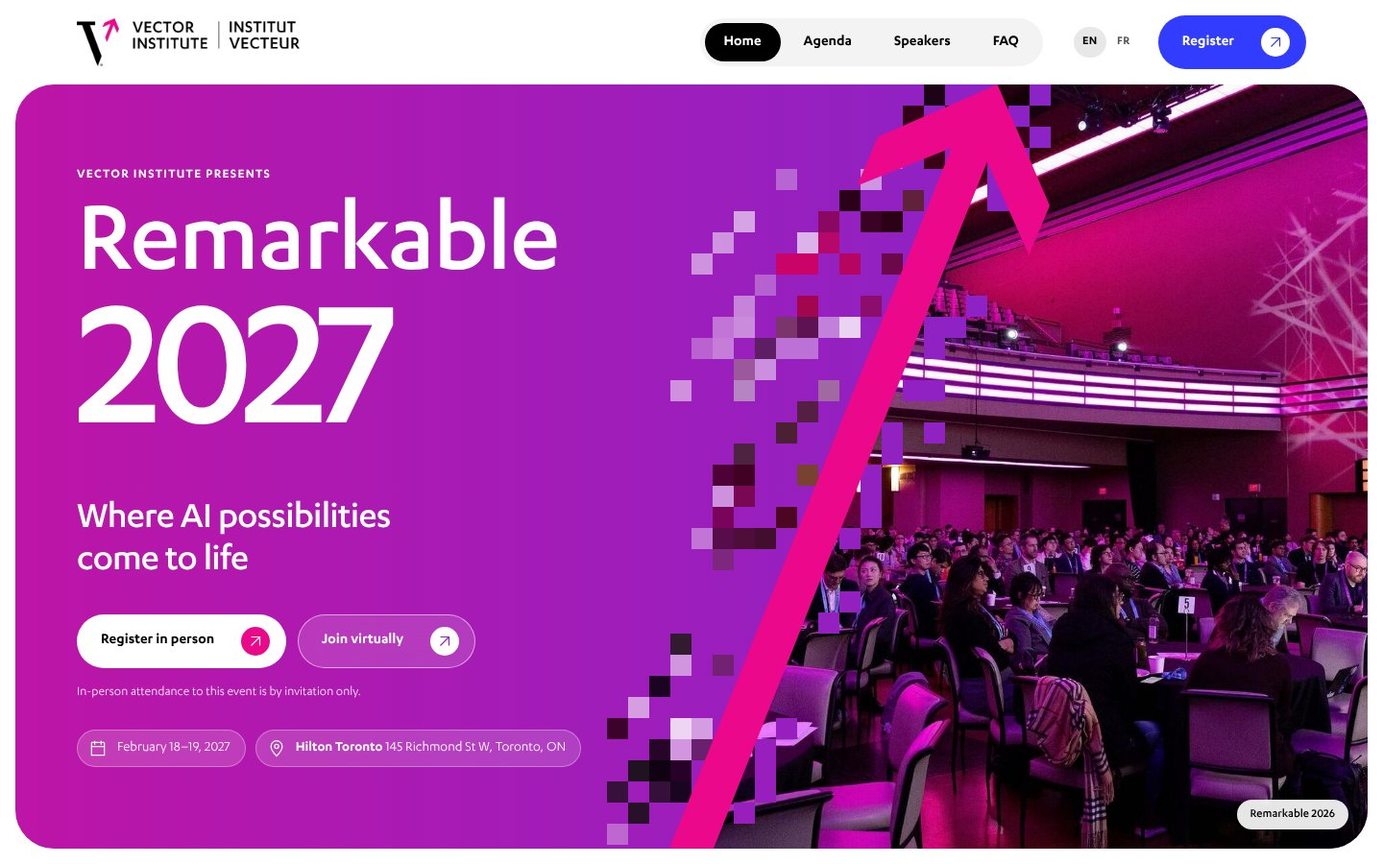
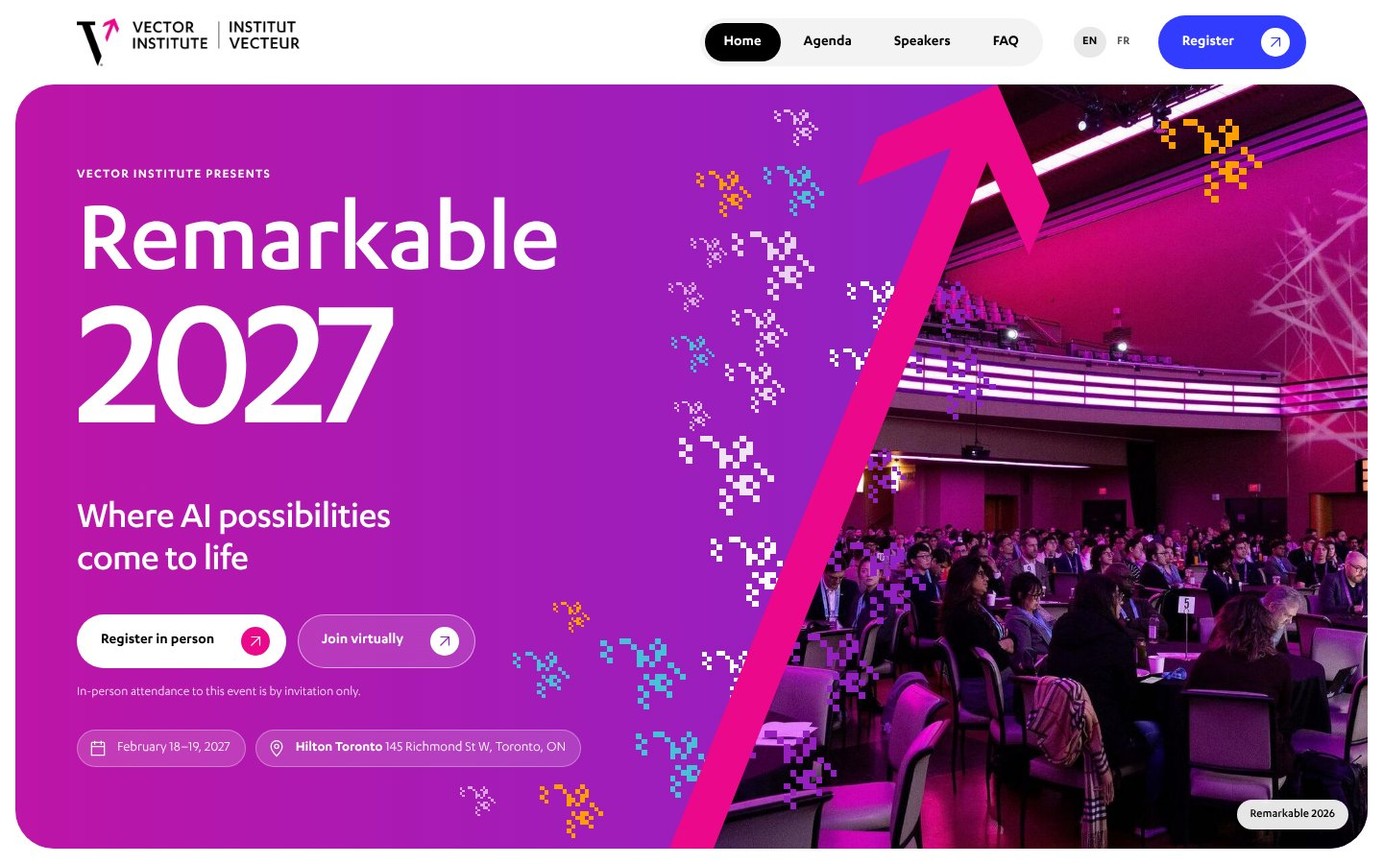
Build pixel tapestries from the official Pixel Design and add brand colour
Every pixel shape is now a whole copy of the official 34-cell pattern,
scaled and coloured only, streamed along the arrow cut. Turquoise and
tangerine join magenta and cobalt in the tapestries, statistics tiles and
agenda session-format dots.

Claude-Session: https://claude.ai/code/session_01XT9Aik9BCKUS9Kz6oc567m

diff --git a/remarkable-2027/dist/render.js b/remarkable-2027/dist/render.js
@@ -24,8 +24,8 @@ let copy;
 const placeholder=(label,cls='',icon=upArrow)=>`<a class="${cls}" href="#" data-placeholder aria-disabled="true">${esc(label)}${icon}</a>`;
 const moreLink=(url,label)=>`<a class="text-link" href="${url}">${esc(label)}${arrow()}</a>`;
 
-/* Arrow seam: the official extended arrow cuts a photo away from a colour field.
-   wireSeams() breaks the photo into pixels along that cut. Pixels appear nowhere else. */
+/* Arrow seam: the official extended arrow cuts a photo away from a colour field, and
+   wireSeams() gathers official Pixel Design copies along that cut. Pixels appear nowhere else. */
 const seam=(photo,alt='',caption='')=>`<figure class="seam-art">${img(photo,alt,'seam-photo',false)}${caption?`<figcaption>${esc(caption)}</figcaption>`:''}</figure><canvas class="seam-pixels" aria-hidden="true"></canvas>${img('assets/brand-elements/vector-arrow-extended.svg','','seam-arrow',false)}`;
 
 function nav(page){return `<a class="skip-link" href="#main-content">${esc(copy.ui.skip)}</a>
@@ -40,7 +40,7 @@ const locationIcon='<svg viewBox="0 0 24 24" fill="none" aria-hidden="true"><pat
 const eventDetails=(cls='')=>`<ul class="event-details ${cls}"><li>${calendarIcon}<span>${esc(copy.hero.dates)}</span></li><li>${locationIcon}<span><strong>${esc(copy.hero.venue)}</strong> ${esc(copy.hero.venue_address)}</span></li></ul>`;
 
 function heroActions(cls){const h=copy.hero;return `<div class="hero-actions ${cls}"><div class="hero-ctas">${placeholder(h.cta_primary,'btn btn--white')}${placeholder(h.cta_secondary,'btn btn--glass')}</div><p class="hero-invitation">${esc(h.small_print)}</p></div>`;}
-function hero(){const h=copy.hero;const match=h.event_name.match(/^(.*?)\s(\d{4})$/);return `<section class="hero"><div class="hero-main seam" data-split=".5" data-field="#BD15A7,#7B27D0">
+function hero(){const h=copy.hero;const match=h.event_name.match(/^(.*?)\s(\d{4})$/);return `<section class="hero"><div class="hero-main seam" data-split=".5" data-field="#BD15A7,#7B27D0" data-palette="#FFFFFF,#48C0D9,#FF9E00">
  ${seam('assets/photos-2026/auditorium-crowd.jpg',photoAlt('auditorium-crowd.jpg'),'Remarkable 2026')}
  <div class="hero-stage seam-stage"><div class="hero-copy seam-copy"><p class="eyebrow">${esc(h.eyebrow)}</p><h1><span class="hero-name">${esc(match[1])}</span> <span class="hero-year">${esc(match[2])}</span></h1><p class="hero-tagline">${esc(h.tagline).replace(' come to life',' <span>come to life</span>')}</p>${heroActions('hero-actions--desktop')}${eventDetails('event-details--glass hero-details--desktop')}</div></div></div>
  <div class="hero-mobile">${heroActions('hero-actions--mobile')}${eventDetails('hero-details--mobile')}</div></section>`;}
@@ -49,15 +49,17 @@ function intro(){return `<section class="intro section"><div class="container"><
 function stats(){return `<section class="stats" aria-labelledby="stats-heading"><div class="container"><div class="panel stats-panel"><h2 class="stats-caption" id="stats-heading">${esc(copy.stats.caption)}</h2><div class="stats-grid">${copy.stats.items.map(s=>`<div class="stat"><div class="stat-value">${esc(s.value)}</div><p class="stat-label">${esc(s.label)}</p></div>`).join('')}</div></div></div></section>`;}
 function days(){const photos=['stage-fireside-chat.jpg','workshop-room.jpg'];return `<section class="section home-agenda"><div class="container"><div class="section-head"><h2>${esc(copy.agenda_page.title)}</h2>${moreLink('agenda.html',copy.home_links.agenda)}</div><div class="days-grid">${copy.days.map((d,i)=>`<article class="day day--${i+1}"><div class="day-media">${img('assets/photos-2026/'+photos[i],photoAlt(photos[i]),'day-photo')}<span class="day-number" aria-hidden="true">0${i+1}</span></div><div class="day-copy"><p class="day-meta"><span class="chip">${esc(d.label)} · ${esc(d.length)}</span><span class="day-date">${esc(d.date)}</span></p><h3><a href="agenda.html#day-${i+1}">${esc(d.title)}</a></h3><p class="day-description">${esc(d.body)}</p><span class="day-go" aria-hidden="true">${arrow()}</span></div></article>`).join('')}</div><p class="section-foot">${esc(copy.agenda_note)}</p></div></section>`;}
 function speakersHome(){return `<section class="section speakers-home"><div class="container"><div class="panel speakers-panel"><div class="speakers-intro"><h2>${esc(copy.speakers_heading)}</h2>${copy.speakers_note?`<p>${esc(copy.speakers_note)}</p>`:''}${moreLink('speakers.html',copy.home_links.speakers)}</div><div class="speaker-grid">${copy.speakers.map(s=>`<article class="speaker-card"><a class="speaker-photo-link" href="speakers.html#${slug(s.name)}" tabindex="-1" aria-hidden="true">${img(s.photo,s.name,'portrait')}</a><div class="speaker-text"><h3><a href="speakers.html#${slug(s.name)}">${esc(s.name)}</a></h3><p class="role">${esc(s.title)}</p><p class="organization">${esc(s.org)}</p></div></article>`).join('')}</div></div></div></section>`;}
-function recap(){return `<section class="recap-section"><div class="container"><div class="recap-block seam" data-split=".5" data-field="#313CFF">${seam(copy.recap.thumbnail,photoAlt(copy.recap.thumbnail))}<div class="recap-stage seam-stage"><div class="recap-copy seam-copy"><h2>${esc(copy.recap.heading)}</h2></div></div><button class="play" disabled aria-label="${esc(copy.ui.video_placeholder)}"><svg viewBox="0 0 24 28" aria-hidden="true"><path d="M2 2 22 14 2 26Z" fill="currentColor"/></svg></button></div></div></section>`;}
+function recap(){return `<section class="recap-section"><div class="container"><div class="recap-block seam" data-split=".5" data-field="#313CFF" data-palette="#FFFFFF,#48C0D9,#FF9E00">${seam(copy.recap.thumbnail,photoAlt(copy.recap.thumbnail))}<div class="recap-stage seam-stage"><div class="recap-copy seam-copy"><h2>${esc(copy.recap.heading)}</h2></div></div><button class="play" disabled aria-label="${esc(copy.ui.video_placeholder)}"><svg viewBox="0 0 24 28" aria-hidden="true"><path d="M2 2 22 14 2 26Z" fill="currentColor"/></svg></button></div></div></section>`;}
 function gallery(){return `<section class="section gallery" aria-labelledby="gallery-heading"><div class="container"><div class="section-head"><div><h2 id="gallery-heading">${esc(copy.gallery.heading)}</h2><p>${esc(copy.gallery.note)}</p></div><div class="gallery-controls"><span class="gallery-range" aria-live="polite"></span><button class="round-btn gallery-prev" type="button" aria-label="Previous photos" aria-controls="gallery-track">${arrow('left')}</button><button class="round-btn gallery-next" type="button" aria-label="Next photos" aria-controls="gallery-track">${arrow()}</button></div></div><div class="gallery-track" id="gallery-track" tabindex="0" role="region" aria-label="Remarkable 2026 photo gallery">${copy.gallery.photos.map(p=>`<figure>${img(p,photoAlt(p))}</figure>`).join('')}</div></div></section>`;}
 function funders(){const names=['Government of Canada','Government of Ontario','CIFAR'];return `<section class="funders"><div class="container"><div class="panel funder-row"><h2>${esc(copy.funders_heading)}</h2><div class="funder-logos">${copy.funders.map((p,i)=>`<div class="funder-logo">${img(p,names[i])}</div>`).join('')}</div></div></div></section>`;}
 function footer(){const f=copy.footer;return `<footer class="footer"><div class="footer-shell"><div class="container"><div class="footer-contact"><div><p>${esc(f.contact_line)}</p><a class="footer-email" href="mailto:${esc(f.contact)}">${esc(f.contact)}</a></div><p class="footer-hashtag">${esc(f.hashtag)}</p></div><div class="footer-body"><div class="footer-brand"><a class="brand" href="index.html">${logo()}</a><p>${esc(f.ontario_credit)}</p></div><nav class="footer-links" aria-label="Vector Institute">${f.links.flat().map(l=>placeholder(l,'','')).join('')}</nav><div class="footer-socials"><p>${esc(f.socials_label)}</p>${f.socials.map(s=>placeholder(s,'','')).join('')}</div></div><p class="footer-legal">${esc(f.legal)}</p><div class="footer-bottom"><span>${esc(f.copyright)}</span><a href="#top">Back to top ${upArrow}</a></div></div></div></footer>`;}
 
 const bannerPhotos={agenda:'stage-fireside-chat.jpg',speakers:'audience-listening.jpg',faq:'registration-desk.jpg'};
-function pageHeader(page){const c=copy[page+'_page'];return `<section class="page-header"><div class="page-banner seam" data-split=".62" data-field="#BD15A7,#7B27D0">${seam('assets/photos-2026/'+bannerPhotos[page])}<div class="page-heading seam-stage"><div class="page-copy seam-copy"><p class="page-kicker">${esc(copy.hero.event_name)}</p><h1>${esc(c.title)}</h1>${eventDetails('event-details--glass')}</div></div></div><div class="container"><p class="page-intro">${withEmail(c.intro)}</p></div></section>`;}
-function highlights(day,i){const indices=i?[1,2,3]:[2,5,8];const people=[copy.speakers[0],copy.speakers[4],copy.speakers[2]];const photos=['workshop-room.jpg','stage-fireside-chat.jpg','posters-conversation.jpg'];return `<div class="highlights"><h3 class="highlight-heading">Featured sessions</h3><div class="highlight-grid">${indices.map((j,k)=>{const item=day.sessions[j];const portrait=i?'assets/photos-2026/'+photos[k]:people[k].photo;return `<a class="highlight-card" href="#session-${i+1}-${j+1}"><div class="highlight-top"><span class="chip">${esc(item.type)}</span>${upArrow}</div><h4>${esc(item.title)}</h4><div class="highlight-footer">${img(portrait,i?photoAlt(photos[k]):people[k].name,i?'highlight-event':'highlight-portrait')}<p>${esc(i?item.time:people[k].name)}</p></div></a>`;}).join('')}</div></div>`;}
-function agenda(){return `<section class="page-content"><div class="container">${copy.agenda_page.note?`<p class="draft-note">${esc(copy.agenda_page.note)}</p>`:''}<div class="agenda-tabs" role="tablist" aria-label="Agenda day">${copy.days.map((d,i)=>`<button id="tab-${i+1}" class="agenda-tab" type="button" role="tab" aria-selected="${i===0}" aria-controls="day-${i+1}" tabindex="${i===0?'0':'-1'}" data-day="${i+1}"><span class="tab-day">${esc(d.label)}</span><span class="tab-date">${esc(d.date)}<span class="tab-length">${esc(d.length)}</span></span>${arrow()}</button>`).join('')}</div>${copy.agenda_page.days.map((day,i)=>`<div class="agenda-panel" role="tabpanel" id="day-${i+1}" aria-labelledby="tab-${i+1}"${i?' hidden':''} tabindex="0"><div class="agenda-day-head"><h2>${esc(copy.days[i].title)}</h2><p>${esc(copy.agenda_note)}</p></div>${highlights(day,i)}<h3 class="schedule-heading">Full program</h3><div class="schedule">${day.sessions.map((s,j)=>`<article id="session-${i+1}-${j+1}" class="session${['Arrivals','Break','Lunch','Reception','Close'].includes(s.type)?' session--break':''}"><p class="session-time">${esc(s.time)}</p><div class="session-body"><p class="session-type chip">${esc(s.type)}</p><h3>${esc(s.title)}</h3>${s.body?`<p class="session-description">${esc(s.body)}</p>`:''}${s.speakers?`<p class="session-speakers">${esc(s.speakers)}</p>`:''}</div><div class="session-place"><span>${esc(s.where)}</span>${s.livestream?`<span class="livestream">${esc(copy.agenda_page.livestream_label)}</span>`:''}</div></article>`).join('')}</div></div>`).join('')}</div></section>`;}
+function pageHeader(page){const c=copy[page+'_page'];return `<section class="page-header"><div class="page-banner seam" data-split=".62" data-field="#BD15A7,#7B27D0" data-palette="#FFFFFF,#48C0D9,#FF9E00">${seam('assets/photos-2026/'+bannerPhotos[page])}<div class="page-heading seam-stage"><div class="page-copy seam-copy"><p class="page-kicker">${esc(copy.hero.event_name)}</p><h1>${esc(c.title)}</h1>${eventDetails('event-details--glass')}</div></div></div><div class="container"><p class="page-intro">${withEmail(c.intro)}</p></div></section>`;}
+/* Session formats are colour-coded with brand colours: main stage, talks, hands-on, breaks. */
+const toneOf=type=>({'Keynote':'magenta','Welcome':'magenta','Fireside chat':'magenta','Panel':'magenta','Close':'magenta','Research talks':'cobalt','Lightning talks':'cobalt','Workshops':'turquoise','Posters':'turquoise'}[type]||'tangerine');
+function highlights(day,i){const indices=i?[1,2,3]:[2,5,8];const people=[copy.speakers[0],copy.speakers[4],copy.speakers[2]];const photos=['workshop-room.jpg','stage-fireside-chat.jpg','posters-conversation.jpg'];return `<div class="highlights"><h3 class="highlight-heading">Featured sessions</h3><div class="highlight-grid">${indices.map((j,k)=>{const item=day.sessions[j];const portrait=i?'assets/photos-2026/'+photos[k]:people[k].photo;return `<a class="highlight-card" href="#session-${i+1}-${j+1}"><div class="highlight-top"><span class="chip chip--dot" data-tone="${toneOf(item.type)}">${esc(item.type)}</span>${upArrow}</div><h4>${esc(item.title)}</h4><div class="highlight-footer">${img(portrait,i?photoAlt(photos[k]):people[k].name,i?'highlight-event':'highlight-portrait')}<p>${esc(i?item.time:people[k].name)}</p></div></a>`;}).join('')}</div></div>`;}
+function agenda(){return `<section class="page-content"><div class="container">${copy.agenda_page.note?`<p class="draft-note">${esc(copy.agenda_page.note)}</p>`:''}<div class="agenda-tabs" role="tablist" aria-label="Agenda day">${copy.days.map((d,i)=>`<button id="tab-${i+1}" class="agenda-tab" type="button" role="tab" aria-selected="${i===0}" aria-controls="day-${i+1}" tabindex="${i===0?'0':'-1'}" data-day="${i+1}"><span class="tab-day">${esc(d.label)}</span><span class="tab-date">${esc(d.date)}<span class="tab-length">${esc(d.length)}</span></span>${arrow()}</button>`).join('')}</div>${copy.agenda_page.days.map((day,i)=>`<div class="agenda-panel" role="tabpanel" id="day-${i+1}" aria-labelledby="tab-${i+1}"${i?' hidden':''} tabindex="0"><div class="agenda-day-head"><h2>${esc(copy.days[i].title)}</h2><p>${esc(copy.agenda_note)}</p></div>${highlights(day,i)}<h3 class="schedule-heading">Full program</h3><div class="schedule">${day.sessions.map((s,j)=>`<article id="session-${i+1}-${j+1}" class="session${['Arrivals','Break','Lunch','Reception','Close'].includes(s.type)?' session--break':''}"><p class="session-time">${esc(s.time)}</p><div class="session-body"><p class="session-type chip chip--dot" data-tone="${toneOf(s.type)}">${esc(s.type)}</p><h3>${esc(s.title)}</h3>${s.body?`<p class="session-description">${esc(s.body)}</p>`:''}${s.speakers?`<p class="session-speakers">${esc(s.speakers)}</p>`:''}</div><div class="session-place"><span>${esc(s.where)}</span>${s.livestream?`<span class="livestream">${esc(copy.agenda_page.livestream_label)}</span>`:''}</div></article>`).join('')}</div></div>`).join('')}</div></section>`;}
 function speakers(){return `<section class="page-content"><div class="container profiles">${copy.speakers.map(s=>`<article class="speaker-profile" id="${slug(s.name)}">${img(s.photo,s.name,'portrait')}<div class="profile-copy"><div class="profile-heading"><h2>${esc(s.name)}</h2><p class="profile-role">${esc(s.title)}</p><p class="profile-org">${esc(s.org)}</p></div><p class="profile-bio">${esc(s.bio)}</p><span class="chip chip--magenta">${esc(s.session)}</span></div></article>`).join('')}<p class="speakers-more">${esc(copy.speakers_page.more)}</p></div></section>`;}
 function withEmail(s){return esc(s).replace(/events@vectorinstitute\.ai/g,'<a href="mailto:events@vectorinstitute.ai">events@vectorinstitute.ai</a>');}
 function faq(){return `<section class="page-content"><div class="container faq-layout"><nav class="faq-nav" aria-label="FAQ topics"><p>Topics</p>${copy.faq_page.groups.map(g=>`<a href="#${slug(g.heading)}">${esc(g.heading)}${arrow()}</a>`).join('')}</nav><div>${copy.faq_page.groups.map(g=>`<section class="faq-group" id="${slug(g.heading)}"><h2>${img('assets/brand-elements/vector-arrow-compact.svg','','faq-heading-arrow',false)}${esc(g.heading)}</h2>${g.items.map((q,k)=>`<details class="faq-item"${k?'':' open'}><summary>${esc(q.q)}<span class="faq-icon" aria-hidden="true"></span></summary><p class="faq-answer">${withEmail(q.a)}</p></details>`).join('')}</section>`).join('')}</div></div></section>`;}
@@ -80,50 +82,85 @@ function wireArrowGeometry(){
  window.addEventListener('resize',()=>document.querySelectorAll('.seam').forEach(s=>s.dispatchEvent(new Event('seamresize'))),{passive:true});
 }
 
-/* Pixel seam. Cells sit on one square grid. On the photo side of the arrow, cells are knocked
-   out of the image and show the colour field behind it; on the open side they break away into the colour field, thinning with distance and
-   stepping up and to the right like the Pixel Design. Fragments near the cut take the photo's
-   colours; farther out they turn to fading white. Cells keep clear of the copy. */
-const cellRandom=(col,row,salt)=>{let h=Math.imul(col+7919,374761393)^Math.imul(row+104729,668265263)^Math.imul(salt+1,2246822519);h=Math.imul(h^h>>>13,1274126177);return((h^h>>>16)>>>0)/4294967296;};
+/* Pixel tapestry. Every shape is a whole copy of the official Pixel Design (Symbol Compilation
+   for Swoogo PDF): the same 34 cells in the same arrangement, only scaled and coloured, never
+   rotated, mirrored, cropped or broken up. Copies gather along the arrow:
+   - Stencil copies straddle the cut: cells on the photo side are knocked out to show the colour
+     field, cells on the open side are white.
+   - A stream of smaller copies hugs the cut: white, turquoise and tangerine in the colour field,
+     knocked out of the photo on the other side. They shrink and thin out away from the arrow, as
+     the pattern "comes into focus and advances" (brand guide p.11).
+   - One tangerine copy sits over the top of the photo, clear of the people in it.
+   Copies never overlap each other, the arrowhead or any copy text. Placement is seeded, so the
+   tapestry is the same on every visit and only rescales with the panel. */
+const PIXEL_CELLS=[[1081.9829,1661],[931.9829,1511],[1681.9829,1361],[1531.9829,1211],[1381.9829,1211],[1081.9829,1361],[931.9829,1211],[2010.8701,911],[1681.9829,1061],[1531.9829,911],[1381.9829,1061],[1381.9829,911],[1231.9829,1061],[1081.9829,911],[1860.8701,761],[1710.8701,611],[1229.9829,600],[929.9829,600],[1379.9829,450],[1379.9829,300],[1079.9829,450],[929.9829,300],[929.9829,450],[150,499.5479],[0,349.5479],[1529.9829,150],[1379.9829,0],[1229.9829,150],[779.9829,150],[629.9829,0],[479.9829,0],[150,199.5479],[0,49.5479],[1529.9829,300]];
+const PIXEL_W=2160.8701,PIXEL_H=1811,PIXEL_UNIT=150;
+/* t: position along the arrow (0 tail, 1 tip). off: horizontal offset from the cut, in arrow
+   heights (negative = colour-field side). f: cell size as a fraction of the arrow height. */
+const TAPESTRY=[
+ {kind:'solid',t:.9,off:.32,f:1/110,color:2,photoSide:true}
+];
+const seededRandom=seed=>()=>{seed=seed+0x6D2B79F5|0;let t=Math.imul(seed^seed>>>15,1|seed);t=t+Math.imul(t^t>>>7,61|t)^t;return((t^t>>>14)>>>0)/4294967296;};
 function textBox(el){if(/^(P|H1|H2)$/.test(el.tagName)){const range=document.createRange();range.selectNodeContents(el);return range.getBoundingClientRect();}return el.getBoundingClientRect();}
 function buildSeam(section){
  const r=section.getBoundingClientRect(),W=r.width,H=r.height;
  const arrowEl=section.querySelector('.seam-arrow'),a=arrowEl.getBoundingClientRect();if(!a.height||!W)return null;
- const k=a.height/ARROW.height,bottom={x:a.left-r.left+ARROW.shaft*k,y:a.top-r.top+a.height},top={x:a.left-r.left+ARROW.tip*k,y:a.top-r.top};
+ const A=a.height,k=A/ARROW.height,ax=a.left-r.left,ay=a.top-r.top;
+ const bottom={x:ax+ARROW.shaft*k,y:ay+A},top={x:ax+ARROW.tip*k,y:ay};
  const edgeX=y=>bottom.x+(top.x-bottom.x)*(bottom.y-y)/(bottom.y-top.y);
- const c=Math.round(Math.min(24,Math.max(12,H/36)));
+ const shaftHalf=12*k,radius=parseFloat(getComputedStyle(section).borderTopLeftRadius)||0;
  const photo=section.querySelector('.seam-photo');const photoOn=!!(photo&&photo.naturalWidth&&photo.getClientRects().length);
- const clear=12*k+c*.25,spread=Math.min(W*.24,c*12),band=c*3;
- const avoid=[...section.querySelectorAll('.seam-copy p,.seam-copy h1,.seam-copy h2,.seam-copy .btn,.seam-copy li,.play,.seam-art figcaption')].map(textBox).filter(b=>b.width).map(b=>({l:b.left-r.left-14,t:b.top-r.top-14,r:b.right-r.left+14,b:b.bottom-r.top+14}));
- const blocked=(x,y)=>avoid.some(b=>x+c>b.l&&x<b.r&&y+c>b.t&&y<b.b);
- const cols=Math.ceil(W/c),rows=Math.ceil(H/c),chosen=new Set(),cells=[];
- for(let row=rows-1;row>=0;row--){const yc=row*c+c/2;if(yc<top.y||yc>bottom.y)continue;const ex=edgeX(yc);
-  for(let col=Math.max(0,Math.floor((ex-clear-spread)/c));col<cols;col++){const x=col*c,cx=x+c/2,y=row*c;
-   const open=cx<ex,d=open?ex-clear-cx:cx-ex-clear;if(d<0)continue;if(!open&&(!photoOn||d>band))break;if(open&&d>spread)continue;
-   let p=open?.36*Math.pow(1-d/spread,2):.7*Math.pow(1-d/band,1.6);
-   if(open&&chosen.has((col-1)+','+(row+1)))p+=.32;
-   if(cellRandom(col,row,1)>=p||blocked(x,y))continue;
-   chosen.add(col+','+row);
-   const white=open&&(!photoOn||d>spread*.45||cellRandom(col,row,2)<.25);
-   const mirror=Math.min(cols-1,Math.floor((ex+clear+(ex-clear-cx))/c));
-   cells.push({x,y,src:mirror,row,white,hole:!open,alpha:white?(.35+.6*cellRandom(col,row,3))*(1-.5*d/spread):1,delay:(d/(open?spread:band))*650+cellRandom(col,row,4)*240});
-  }}
- let mosaic=null;
- if(photoOn){const b=photo.getBoundingClientRect(),s=Math.max(b.width/photo.naturalWidth,b.height/photo.naturalHeight),dw=photo.naturalWidth*s,dh=photo.naturalHeight*s,dx=b.left-r.left+(b.width-dw)/2,dy=b.top-r.top+(b.height-dh)/2;
-  const mid=document.createElement('canvas');mid.width=cols*4;mid.height=rows*4;mid.getContext('2d').drawImage(photo,dx*4/c,dy*4/c,dw*4/c,dh*4/c);
-  mosaic=document.createElement('canvas');mosaic.width=cols;mosaic.height=rows;const m=mosaic.getContext('2d');m.imageSmoothingQuality='high';m.drawImage(mid,0,0,cols,rows);}
- const field=section.dataset.field||'';const stops=field.split(',');
- return {W,H,c,cells,mosaic,fieldAt:x=>{if(stops.length<2)return stops[0]||'#FFFFFF';const t=Math.min(1,Math.max(0,x/W)),[a,b]=stops.map(h=>h.match(/\w\w/g).map(v=>parseInt(v,16)));return 'rgb('+a.map((v,i)=>Math.round(v+(b[i]-v)*t)).join(',')+')';}};
+ const palette=(section.dataset.palette||'#FFFFFF').split(',');
+ const pad=16,avoid=[...section.querySelectorAll('.seam-copy p,.seam-copy h1,.seam-copy h2,.seam-copy .btn,.seam-copy li,.play,.seam-art figcaption')].map(textBox).filter(b=>b.width).map(b=>({l:b.left-r.left-pad,t:b.top-r.top-pad,r:b.right-r.left+pad,b:b.bottom-r.top+pad}));
+ avoid.push({l:ax+88*k-8,t:ay-8,r:ax+ARROW.width*k+8,b:ay+94*k+8});
+ const hits=(b,list)=>list.some(o=>b.r>o.l&&b.l<o.r&&b.b>o.t&&b.t<o.b);
+ const fits=b=>{if(b.l<10||b.t<10||b.r>W-10||b.b>H-10)return false;
+  const inCorner=(x,y)=>{const cx=x<radius?radius:x>W-radius?W-radius:null,cy=y<radius?radius:y>H-radius?H-radius:null;return cx!==null&&cy!==null&&Math.hypot(x-cx,y-cy)>radius-10;};
+  return ![[b.l,b.t],[b.r,b.t],[b.l,b.b],[b.r,b.b]].some(p=>inCorner(...p));};
+ const placed=[],instances=[];
+ for(const item of TAPESTRY){
+  const kind=item.kind==='stencil'&&!photoOn?'solid':item.kind;if(item.photoSide&&!photoOn)continue;
+  let found=null;
+  search:for(const scale of [1,.85,.7,.55])for(const dt of [0,.04,-.04,.08,-.08,.12,-.12,.18,-.18,.24,-.24])for(const om of [1,1.25,.8]){
+   const cs=Math.max(4,item.f*A*scale),w=PIXEL_W/PIXEL_UNIT*cs,h=PIXEL_H/PIXEL_UNIT*cs;
+   const cy=bottom.y-(item.t+dt)*(bottom.y-top.y),cx=edgeX(cy)+item.off*om*A;
+   const b={l:cx-w/2,t:cy-h/2,r:cx+w/2,b:cy+h/2};
+   if(!fits(b)||hits({l:b.l-12,t:b.t-12,r:b.r+12,b:b.b+12},placed)||hits(b,avoid))continue;
+   if(kind==='solid'&&(item.photoSide?b.l<Math.max(edgeX(b.t),edgeX(b.b))+shaftHalf+10:b.r>Math.min(edgeX(b.t),edgeX(b.b))-shaftHalf-10))continue;
+   found={b,cs};break search;}
+  if(!found)continue;placed.push(found.b);
+  const kk=found.cs/PIXEL_UNIT,cells=PIXEL_CELLS.map(([x,y])=>{const l=Math.round(found.b.l+x*kk),t=Math.round(found.b.t+y*kk),rr=Math.round(found.b.l+(x+PIXEL_UNIT)*kk),bb=Math.round(found.b.t+(y+PIXEL_UNIT)*kk);
+   return {l,t,w:rr-l,h:bb-t,order:x-y,hole:kind==='stencil'&&l+(rr-l)/2>edgeX(t+(bb-t)/2)};});
+  instances.push({kind,color:palette[(item.color||0)%palette.length],cells,delay:instances.length*140});
+ }
+ const random=seededRandom(2027),spread=Math.min(W*.26,A*.3),limit=Math.round(A/22);
+ for(let i=0;i<2400&&instances.length<limit+TAPESTRY.length;i++){
+  const t=random(),u=random(),pick=random(),jitter=random(),photoSide=photoOn&&random()<.24;
+  const d=photoSide?u*A*.05:Math.pow(u,2.4)*spread,cs=Math.max(2.6,(A/118+(A/270-A/118)*Math.min(1,d/spread))*(.6+.8*jitter)*(photoSide?.95:1)),w=PIXEL_W/PIXEL_UNIT*cs,h=PIXEL_H/PIXEL_UNIT*cs;
+  const cy=bottom.y-t*(bottom.y-top.y);let b;
+  /* A copy may tuck under the arrow, but no visible cell may cross the cut. */
+  if(photoSide){const l=edgeX(cy-h/2)-shaftHalf*.8+d;b={l,t:cy-h/2,r:l+w,b:cy+h/2};}
+  else{const rr=edgeX(cy+h/2)+shaftHalf*.8-d;b={l:rr-w,t:cy-h/2,r:rr,b:cy+h/2};}
+  if(!fits(b)||hits({l:b.l-4,t:b.t-4,r:b.r+4,b:b.b+4},placed)||hits(b,avoid))continue;
+  placed.push(b);const kk=cs/PIXEL_UNIT,color=palette[pick<.18?1:pick<.3?2:0];
+  instances.push({kind:photoSide?'hole':'solid',color,alpha:photoSide||color!==palette[0]?1:1-.4*d/spread,d,
+   cells:PIXEL_CELLS.map(([x,y])=>{const l=Math.round(b.l+x*kk),tt=Math.round(b.t+y*kk);return {l,t:tt,w:Math.round(b.l+(x+PIXEL_UNIT)*kk)-l,h:Math.round(b.t+(y+PIXEL_UNIT)*kk)-tt,order:x-y};})});
+ }
+ instances.forEach(inst=>{if(inst.d!==undefined)inst.delay=200+inst.d/spread*700;});
+ const field=(section.dataset.field||'#FFFFFF').split(',');
+ return {W,H,instances,field};
 }
 function paintSeam(canvas,seam,elapsed=Infinity){
  const dpr=Math.min(2,window.devicePixelRatio||1);if(canvas.width!==Math.round(seam.W*dpr)||canvas.height!==Math.round(seam.H*dpr)){canvas.width=Math.round(seam.W*dpr);canvas.height=Math.round(seam.H*dpr);}
- const ctx=canvas.getContext('2d');ctx.setTransform(dpr,0,0,dpr,0,0);ctx.clearRect(0,0,seam.W,seam.H);ctx.imageSmoothingEnabled=false;
+ const ctx=canvas.getContext('2d');ctx.setTransform(dpr,0,0,dpr,0,0);ctx.clearRect(0,0,seam.W,seam.H);
+ let fieldFill=seam.field[0];if(seam.field.length>1){fieldFill=ctx.createLinearGradient(0,0,seam.W,0);fieldFill.addColorStop(0,seam.field[0]);fieldFill.addColorStop(1,seam.field[1]);}
  let pending=false;
- for(const cell of seam.cells){const t=Math.min(1,Math.max(0,(elapsed-cell.delay)/420));if(t<1)pending=true;if(!t)continue;
-  const e=1-Math.pow(1-t,3),size=seam.c*(.3+.7*e),off=(seam.c-size)/2;ctx.globalAlpha=cell.alpha*e;
-  if(cell.hole){ctx.fillStyle=seam.fieldAt(cell.x+seam.c/2);ctx.fillRect(cell.x+off,cell.y+off,size,size);}
-  else if(cell.white||!seam.mosaic){ctx.fillStyle='#FFFFFF';ctx.fillRect(cell.x+off,cell.y+off,size,size);}
-  else ctx.drawImage(seam.mosaic,cell.src,cell.row,1,1,cell.x+off,cell.y+off,size,size);}
+ for(const inst of seam.instances){
+  const orders=inst.cells.map(c=>c.order),lo=Math.min(...orders),span=(Math.max(...orders)-lo)||1;
+  for(const cell of inst.cells){const t=Math.min(1,Math.max(0,(elapsed-inst.delay-(cell.order-lo)/span*520)/380));if(t<1)pending=true;if(!t)continue;
+   const e=1-Math.pow(1-t,3),w=cell.w*(.3+.7*e),h=cell.h*(.3+.7*e),x=cell.l+(cell.w-w)/2,y=cell.t+(cell.h-h)/2;ctx.globalAlpha=e*(inst.alpha??1);
+   ctx.fillStyle=inst.kind==='hole'||cell.hole?fieldFill:inst.kind==='stencil'?'#FFFFFF':inst.color;ctx.fillRect(x,y,w,h);
+  }}
  ctx.globalAlpha=1;return pending;
 }
 function wireSeams(){

diff --git a/remarkable-2027/dist/styles.css b/remarkable-2027/dist/styles.css
@@ -36,6 +36,8 @@ a:focus-visible,button:focus-visible,summary:focus-visible,[tabindex]:focus-visi
 /* Chips, buttons and links: every control is a pill */
 .chip{display:inline-flex;align-items:center;gap:8px;width:fit-content;border-radius:99px;background:var(--line);padding:5px 12px;font-size:13px;font-weight:600;line-height:1.4;letter-spacing:.01em}
 .chip--magenta{background:var(--vi-magenta);color:white}
+.chip--dot::before{content:"";width:8px;height:8px;border-radius:50%;background:var(--tone)}
+[data-tone=magenta]{--tone:var(--vi-magenta)}[data-tone=cobalt]{--tone:var(--vi-cobalt)}[data-tone=turquoise]{--tone:var(--vi-turquoise)}[data-tone=tangerine]{--tone:var(--vi-tangerine)}
 .btn{display:inline-flex;align-items:center;justify-content:space-between;gap:28px;min-height:52px;border:1.5px solid transparent;border-radius:99px;padding:12px 16px 12px 24px;font-size:16px;font-weight:600;line-height:1.3;white-space:nowrap;transition:background .2s,color .2s,border-color .2s,transform .2s var(--ease)}
 .btn .ui-arrow{width:30px;height:30px;padding:6px;border-radius:50%;background:currentColor}
 .btn .ui-arrow path{stroke:var(--btn-fill)}
@@ -116,8 +118,12 @@ a:focus-visible,button:focus-visible,summary:focus-visible,[tabindex]:focus-visi
 .stats-caption{font:600 14px/1.4 var(--font-body);letter-spacing:.09em;text-transform:uppercase;margin-bottom:28px}
 .stats-grid{display:grid;grid-template-columns:repeat(4,1fr);gap:16px}
 .stat{position:relative;background:white;border-radius:var(--radius-lg);padding:28px 28px 26px}
+.stat:nth-child(1){background:var(--vi-magenta)}
+.stat:nth-child(2){background:var(--vi-cobalt);color:white}
+.stat:nth-child(3){background:var(--vi-turquoise)}
+.stat:nth-child(4){background:var(--vi-tangerine)}
 .stat-value{font-family:var(--font-heading);font-size:clamp(56px,6vw,88px);font-weight:500;line-height:1;letter-spacing:-.05em}
-.stat-label{font-size:16px;color:var(--muted);margin-top:10px}
+.stat-label{font-size:16px;font-weight:500;margin-top:10px}
 
 /* Section heads */
 .section-head{display:flex;align-items:end;justify-content:space-between;gap:36px;margin-bottom:44px}
@@ -206,6 +212,7 @@ a:focus-visible,button:focus-visible,summary:focus-visible,[tabindex]:focus-visi
 /* Inner page banner */
 .page-header{padding-inline:var(--gutter)}
 .page-banner{max-width:1760px;margin-inline:auto;background:var(--event-gradient);color:white}
+.page-banner .seam-photo{object-position:25% 50%}
 .page-heading{display:flex;align-items:center;width:min(1280px,calc(100% + 2 * var(--gutter) - 96px));margin-inline:auto;min-height:380px;padding-block:56px}
 .page-copy{width:var(--copy-max);max-width:760px}
 .page-kicker{font:600 14px/1.4 var(--font-body);letter-spacing:.09em;text-transform:uppercase}
@@ -250,7 +257,7 @@ a:focus-visible,button:focus-visible,summary:focus-visible,[tabindex]:focus-visi
 .session-speakers{font-size:14px;font-weight:600;margin-top:12px;color:var(--muted)}
 .session-place{display:flex;flex-direction:column;align-items:flex-end;gap:10px;font-size:14px;text-align:right}
 .livestream{display:inline-flex;align-items:center;gap:8px;border-radius:99px;padding:4px 12px;background:var(--vi-magenta);color:white;font-size:12px;font-weight:600}
-.livestream::before{content:"";width:7px;height:7px;border-radius:2px;background:white}
+.livestream::before{content:"";width:7px;height:7px;border-radius:50%;background:white}
 
 /* Speakers page */
 .profiles{display:flex;flex-direction:column;gap:16px}

diff --git a/remarkable-2027/HANDOFF.md b/remarkable-2027/HANDOFF.md
@@ -1,13 +1,28 @@
 # Remarkable 2027 — Rounded panels handoff
 
-Updated October 23, 2026 (rounded panels, then the arrow seam). Builds on the October 22, 2026 Karbon and pixels revision, from the supplied event package, brand guide, recap reference, Karbon Font archive and Symbol Compilation for Swoogo PDF.
+Updated October 23, 2026 (rounded panels, arrow seam, then official-pattern tapestry and colour). Builds on the October 22, 2026 Karbon and pixels revision, from the supplied event package, brand guide, recap reference, Karbon Font archive and Symbol Compilation for Swoogo PDF.
 
-## Current revision: the arrow seam
+## Current revision: official-pattern tapestry and colour
+
+Scope is the four Swoogo pages (Home, Agenda, Speakers, FAQ) on desktop and mobile. The email-banner fields left in `copy.json` from earlier concepts are untouched and unused.
+
+1. **Only the official Pixel Design.** Every pixel shape on the pages is now a whole copy of the Pixel Design in the Symbol Compilation for Swoogo PDF: the same 34 cells in the same arrangement, only scaled and coloured. Copies are never rotated, mirrored, cropped or broken apart, never overlap each other and never cross the cut where they would be seen. (Page 11 of the brand guide shows the pattern mirrored; the Swoogo PDF orientation is used.) The generated cells from the previous revision are gone.
+2. **Tapestry along the arrow.** The arrow-seam rule stays: pixels appear only where the arrow cuts a photo. A seeded stream of small copies hugs the cut and thins out away from it. Most are white, with turquoise and tangerine accents; white copies fade slightly with distance. On the photo side, about a quarter of the copies are knocked out of the photo to show the colour field. One larger tangerine copy sits over the top of the photo, away from the people in it. Copies may tuck under the arrow but never sit on copy text or the arrowhead.
+3. **More brand colour.** Turquoise (#48C0D9) and tangerine (#FF9E00) join magenta and cobalt:
+   - in the pixel tapestries (brand guide p.11 shows the pattern in every brand colour);
+   - in the four statistics tiles: magenta, cobalt, turquoise and tangerine, with black or white text chosen for at least 4.5:1 contrast;
+   - as session-format dots on the agenda: magenta for main-stage formats, cobalt for talks, turquoise for workshops and posters, tangerine for arrivals, breaks, meals and the reception.
+   Mixed gradient colours remain confined to the opening panels.
+4. **Banner photos** are framed from the left (`object-position: 25% 50%`) so people sit farther from the cut.
+
+The tapestry is drawn by `buildSeam` and `paintSeam` in `render.js`. `PIXEL_CELLS` holds the 34 cells from `vector-pixel-design.svg`; `TAPESTRY` holds the art-directed copy; the stream is seeded (`seededRandom(2027)`), so it is identical on every visit and rescales with the panel. Each seam panel declares `data-palette` for its copy colours.
+
+## Previous revision: the arrow seam
 
 The pixel motif now follows one rule taken from the brand references, where pixels always travel with arrows: **pixels appear only where the official arrow cuts through a photo, and the photo breaks apart along that cut.** The free-standing pixel clusters, stair-step markers and heading accents are gone.
 
 - **Where it appears.** Three places share the same construction of colour field, photo, arrow and pixel seam: the home hero (gradient), every inner-page banner (gradient, with a page photo: Agenda `stage-fireside-chat.jpg`, Speakers `audience-listening.jpg`, FAQ `registration-desk.jpg`) and the recap block (cobalt). Content sections between them stay clean.
-- **How the cells behave.** All cells sit on one square grid sized from the panel height (12-24 px). On the photo side, cells within about three cells of the arrow are knocked out of the image and show the colour field through it. On the open side, broken-off cells thin out with distance and favour steps up and to the right, like the Pixel Design and the arrow. Cells near the cut take colours sampled from the photo; farther out they become fading white. Cells keep 14 px clear of all copy, buttons and the photo caption. Cell choice is seeded by grid position, so the pattern is stable and redraws without reshuffling on resize.
+- **How the cells behaved (replaced).** All cells sat on one square grid sized from the panel height (12-24 px). On the photo side, cells within about three cells of the arrow are knocked out of the image and show the colour field through it. On the open side, broken-off cells thin out with distance and favour steps up and to the right, like the Pixel Design and the arrow. Cells near the cut take colours sampled from the photo; farther out they become fading white. Cells keep 14 px clear of all copy, buttons and the photo caption. Cell choice is seeded by grid position, so the pattern is stable and redraws without reshuffling on resize.
 - **Motion.** Cells grow outward from the cut over about one second the first time each panel scrolls into view. With reduced motion they appear immediately.
 - **Mobile.** The hero and recap keep the photo, so the full seam runs on phones. Inner-page banners hide their photo on phones and keep the small top-right arrow, so only the white broken-off cells remain beside it.
 - **Implementation.** `render.js` draws each seam on a `<canvas class="seam-pixels">` between the photo and the arrow (`buildSeam`, `paintSeam`, `wireSeams`). Each seam panel declares its split position (`data-split`) and colour field (`data-field`, either a gradient's two stops or a solid colour). Photo colours are taken by drawing the image into a small canvas, so the effect never reads pixel data and works from the local folder. In Swoogo, keep the photo, canvas and arrow stacking order and the shared arrow geometry.

diff --git a/remarkable-2027/README.md b/remarkable-2027/README.md
@@ -8,7 +8,7 @@ Unzip the package and open `dist/index.html` in a browser. Home, Agenda, Speaker
 
 ## Visual direction
 
-The October 23, 2026 revision rebuilds the layout as a system of rounded rectangles: inset gradient opening panels, grey section panels, white cards and pill controls on one radius scale. Pixels follow one rule: they appear only where the official arrow cuts through a photo, and the photo breaks apart along the cut, on the home hero, every inner-page banner and the recap. See `HANDOFF.md` for details.
+The October 23, 2026 revision rebuilds the layout as a system of rounded rectangles: inset gradient opening panels, grey section panels, white cards and pill controls on one radius scale. Pixels follow one rule: they appear only where the official arrow cuts through a photo, as a tapestry of whole copies of the official Pixel Design, on the home hero, every inner-page banner and the recap. Turquoise and tangerine join magenta and cobalt in the tapestries, statistics and agenda. See `HANDOFF.md` for details.
 
 
 The hero keeps its diagonal photo split and official extended Vector arrow, with the tip touching the section top. All typography now uses the supplied Karbon family, including body text and controls.
@@ -25,7 +25,7 @@ Agenda, Speakers and FAQ place the event name above the page title, with date an
 - `dist/fonts/`: supplied OTFs and matching WOFF versions.
 - `dist/assets/brand-elements/vector-pixel-design.svg`: exact 34-cell block design from the supplied PDF.
 - `dist/assets/brand-elements/vector-arrow-compact.svg`: compact official arrow from the supplied PDF.
-- `dist/render.js`: shared renderer, arrow geometry, pixel seam and interactions.
+- `dist/render.js`: shared renderer, arrow geometry, official-pattern tapestry and interactions.
 - `dist/content/copy.json`: authoritative event copy.
 - `dist/content/copy.js`: generated offline copy.
 - `tools/sync-copy.py`: regenerates copy.js after JSON edits.

diff --git a/remarkable-2027/dist/content/COPY-CHANGES.md b/remarkable-2027/dist/content/COPY-CHANGES.md
@@ -63,3 +63,7 @@ Design-only revision. Event JSON and all event wording are unchanged. Added UI-o
 ## Arrow seam — October 23, 2026
 
 Design-only revision. Event JSON and all event wording are unchanged. Inner-page banner photos are decorative and carry empty alternative text.
+
+## Official-pattern tapestry and colour — October 23, 2026
+
+Design-only revision. Event JSON and all event wording are unchanged.
